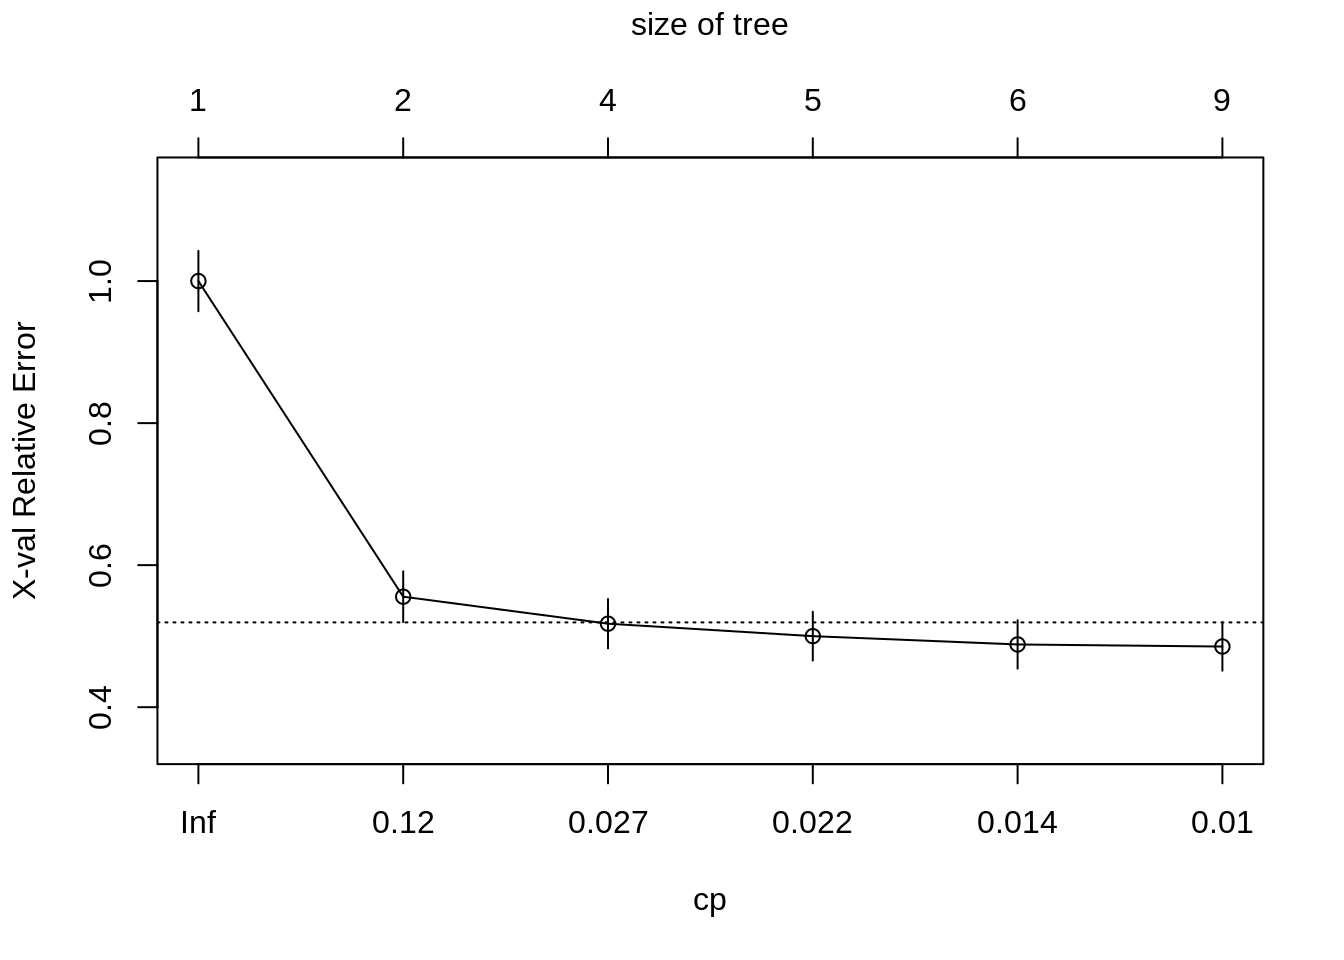
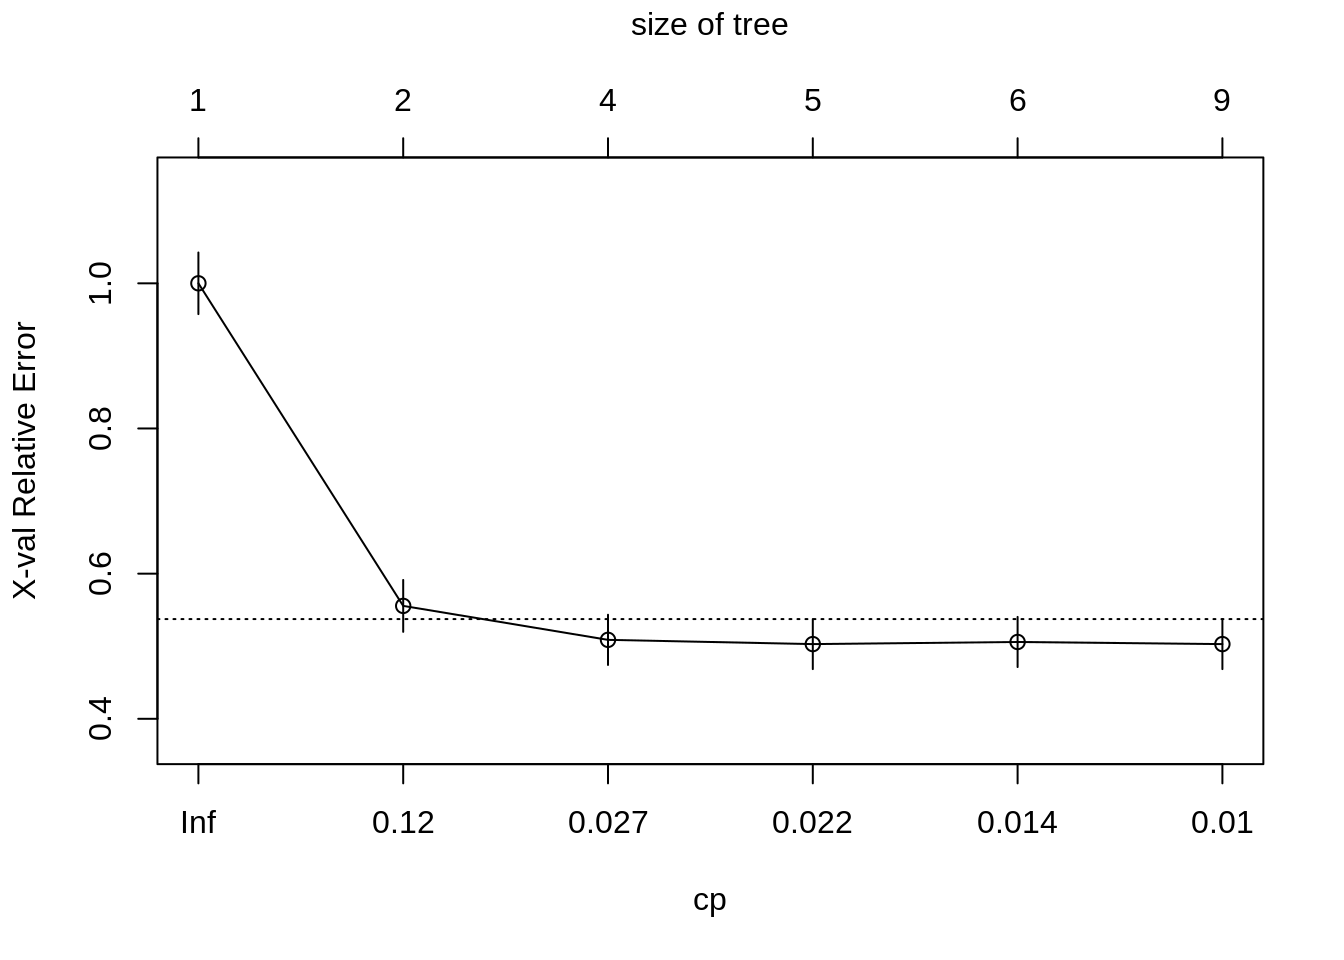
Deploy lebebr01/stat_thinking to github.com/lebebr01/stat_thinking.git:master

diff --git a/docs/classification.html b/docs/classification.html
@@ -324,10 +324,10 @@ titanic &lt;-<span class="st"> </span><span class="kw">bind_rows</span>(titanic_
 ##         CP nsplit rel error  xerror     xstd
 ## 1 0.444444      0   1.00000 1.00000 0.042446
 ## 2 0.030702      1   0.55556 0.55556 0.035750
-## 3 0.023392      3   0.49415 0.51754 0.034823
-## 4 0.020468      4   0.47076 0.50000 0.034372
-## 5 0.010234      5   0.45029 0.48830 0.034061
-## 6 0.010000      8   0.41813 0.48538 0.033983</code></pre>
+## 3 0.023392      3   0.49415 0.50877 0.034599
+## 4 0.020468      4   0.47076 0.50292 0.034448
+## 5 0.010234      5   0.45029 0.50585 0.034524
+## 6 0.010000      8   0.41813 0.50292 0.034448</code></pre>
 <div class="sourceCode"><pre class="sourceCode r"><code class="sourceCode r"><span class="kw">plotcp</span>(class_tree)</code></pre></div>
 <p><img src="05-classification_files/figure-html/unnamed-chunk-6-1.png" width="672" /></p>
 <div class="sourceCode"><pre class="sourceCode r"><code class="sourceCode r">prune_class_tree &lt;-<span class="st"> </span><span class="kw">prune</span>(class_tree, <span class="dt">cp =</span> .<span class="dv">02</span>)

diff --git a/docs/05-classification.md b/docs/05-classification.md
@@ -249,10 +249,10 @@ printcp(class_tree)
 ##         CP nsplit rel error  xerror     xstd
 ## 1 0.444444      0   1.00000 1.00000 0.042446
 ## 2 0.030702      1   0.55556 0.55556 0.035750
-## 3 0.023392      3   0.49415 0.51754 0.034823
-## 4 0.020468      4   0.47076 0.50000 0.034372
-## 5 0.010234      5   0.45029 0.48830 0.034061
-## 6 0.010000      8   0.41813 0.48538 0.033983
+## 3 0.023392      3   0.49415 0.50877 0.034599
+## 4 0.020468      4   0.47076 0.50292 0.034448
+## 5 0.010234      5   0.45029 0.50585 0.034524
+## 6 0.010000      8   0.41813 0.50292 0.034448
 ```
 
 ```r
